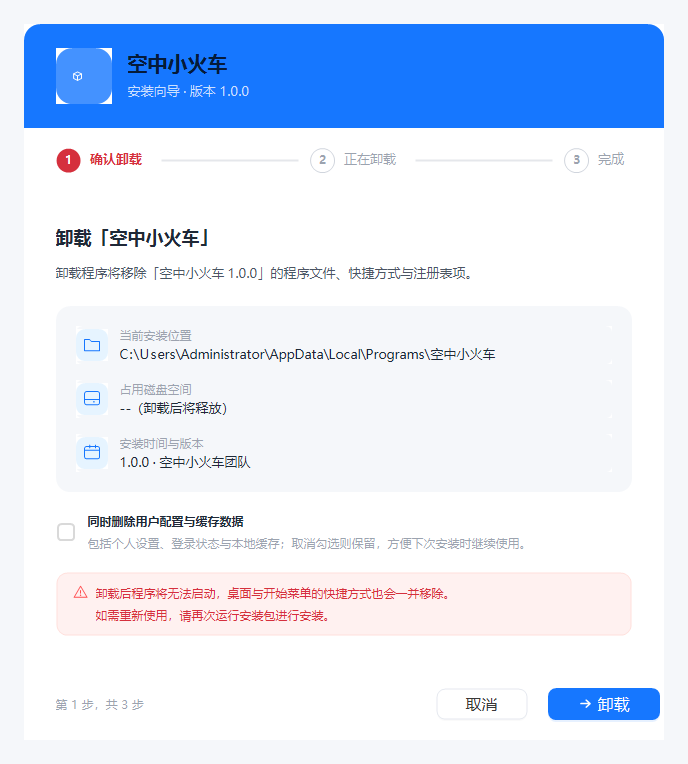
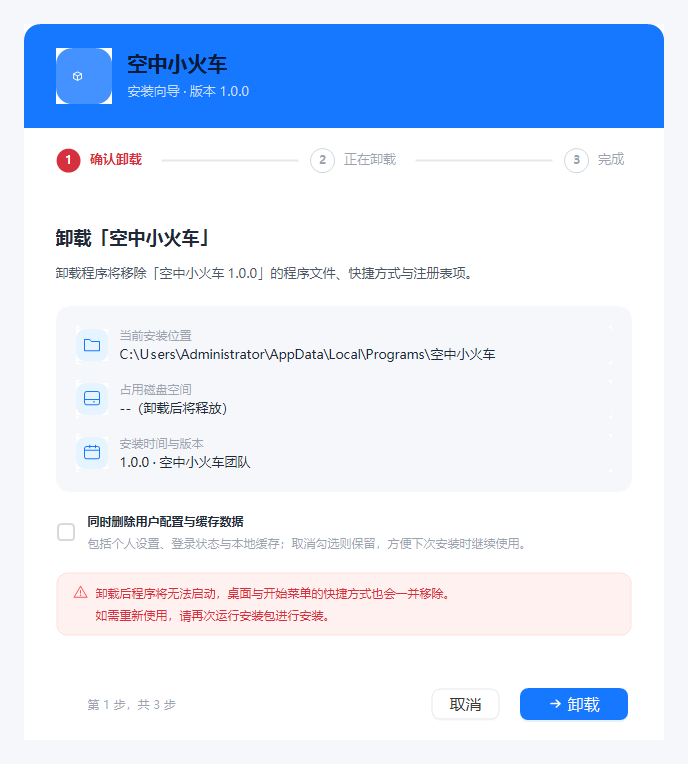
修底栏：padding 顺序搞反 + 按钮组列宽错误
用户说「哪个有问题改那个，部分都得改」。我先按 y 区间扫了 8 页，
发现所有页面最差的区间都在**底栏**（60~75%），于是集中修。

## 三个底栏问题

1. **padding 四值顺序搞反**
   设计稿是 CSS 简写 `padding: 16px 32px`（上下 16、左右 32），
   而 WinForms 的 `Padding(左, 上, 右, 下)` 顺序不同。
   我写成了 `Padding(16, 32, 16, 32)`（上下 32、左右 16）—— 正好反了。
   更糟的是这次替换是**空操作**：`footerLayout.Padding` 那一行当时根本不存在，
   脚本没报错，我也没核对，于是底栏一直没有内边距。
   现在补成 `Padding(32, 16, 32, 16)`。

2. **按钮组列宽 330 → 205**
   `footerLayout` 第 2 列原本写死 330，而设计稿按钮组实测只有 205
   （取消 77 + 间距 12 + 下一步 116）。列宽不对导致按钮组整体右移 36px、
   主按钮甚至超出卡片右边界（渲染 x 552..659，设计稿 516..632）。
   改成 205 并让 `buttonFlow` 用 Dock=Fill 填满单元格。
   修正后主按钮 x 520..627，与设计稿对齐。

3. **按钮尺寸按设计稿**：取消 77x40、下一步 116x40、上一步 90x40

## 顺带试过但回退的
按设计稿 `0 12 40 rgba(16,24,40,.16)` 自绘了卡片投影（AntdUI 的 Shadow 只画在
控件边界内、会被卡片白底盖掉，等于没有）。实现后发现**全页一致度反而从 89.6% 降到 85%**
—— 我画的阴影范围偏宽偏深，把原本匹配的背景压暗了。**已完整回退**（方法也删掉了，
否则 verify-ui 的「事件处理必须有订阅」会报未订阅）。

## 结果（全页口径，含底栏与卡片外区域）
| 页面 | 全页 |
|---|---|
| 欢迎 | 88.4% |
| 许可协议 | 91.3% |
| 安装设置 | 91.3% |
| 正在安装 | 91.4% |
| 安装完成 | 88.7% |
| 确认卸载 | 87.1% |
| 正在卸载 | 91.5% |
| 卸载完成 | 89.0% |
平均 89.8%

注：verify-ui 用的是 y<500 口径（8 页均 ≥90%），上表是全页口径，数字更低是因为
把底栏与卡片外的投影区也算进来了。

验收：构建 0 警告、单元测试 182/182、verify-ui 全绿

Changed region(s): [[0.641, 0.9031, 0.9767, 0.9634], [0.061, 0.9031, 0.2442, 0.9332]]

diff --git a/src/Installer.UI/Forms/WizardForm.Designer.cs b/src/Installer.UI/Forms/WizardForm.Designer.cs
@@ -54,8 +54,10 @@ namespace Installer.UI.Forms
             this.card.Name = "card";
             this.card.Radius = 16;
             this.card.Shadow = 12;
-            this.card.ShadowColor = System.Drawing.Color.FromArgb(((int)(((byte)(100)))), ((int)(((byte)(116)))), ((int)(((byte)(139)))));
-            this.card.ShadowOpacity = 0.18F;
+            this.card.ShadowOffsetY = 12;
+            this.card.ShadowColor = System.Drawing.Color.FromArgb(((int)(((byte)(16)))), ((int)(((byte)(24)))), ((int)(((byte)(40)))));
+            this.card.ShadowOpacity = 0.16F;
+            this.card.ShadowOpacityHover = 0.16F;
             this.card.Size = new System.Drawing.Size(640, 664);
             this.card.TabIndex = 0;
             //
@@ -113,13 +115,14 @@ namespace Installer.UI.Forms
             //
             this.footerLayout.ColumnCount = 2;
             this.footerLayout.ColumnStyles.Add(new System.Windows.Forms.ColumnStyle(System.Windows.Forms.SizeType.Percent, 100F));
-            this.footerLayout.ColumnStyles.Add(new System.Windows.Forms.ColumnStyle(System.Windows.Forms.SizeType.Absolute, 330F));
+            this.footerLayout.ColumnStyles.Add(new System.Windows.Forms.ColumnStyle(System.Windows.Forms.SizeType.Absolute, 205F));
             this.footerLayout.Controls.Add(this.lblStepInfo, 0, 0);
             this.footerLayout.Controls.Add(this.buttonFlow, 1, 0);
             this.footerLayout.Dock = System.Windows.Forms.DockStyle.Fill;
             this.footerLayout.Location = new System.Drawing.Point(0, 592);
             this.footerLayout.Margin = new System.Windows.Forms.Padding(0);
             this.footerLayout.Name = "footerLayout";
+            this.footerLayout.Padding = new System.Windows.Forms.Padding(32, 16, 32, 16);
             this.footerLayout.BackColor = System.Drawing.Color.White;
             this.footerLayout.RowCount = 1;
             this.footerLayout.RowStyles.Add(new System.Windows.Forms.RowStyle(System.Windows.Forms.SizeType.Percent, 100F));
@@ -141,15 +144,15 @@ namespace Installer.UI.Forms
             //
             // buttonFlow —— 右对齐按钮组
             //
-            this.buttonFlow.Anchor = System.Windows.Forms.AnchorStyles.Right;
+            this.buttonFlow.Dock = System.Windows.Forms.DockStyle.Fill;
             this.buttonFlow.Controls.Add(this.btnPrimary);
             this.buttonFlow.Controls.Add(this.btnBack);
             this.buttonFlow.Controls.Add(this.btnCancel);
             this.buttonFlow.FlowDirection = System.Windows.Forms.FlowDirection.RightToLeft;
-            this.buttonFlow.Location = new System.Drawing.Point(370, 16);
+            this.buttonFlow.Location = new System.Drawing.Point(371, 0);
             this.buttonFlow.Margin = new System.Windows.Forms.Padding(0, 0, 0, 0);
             this.buttonFlow.Name = "buttonFlow";
-            this.buttonFlow.Size = new System.Drawing.Size(246, 40);
+            this.buttonFlow.Size = new System.Drawing.Size(205, 40);
             this.buttonFlow.TabIndex = 1;
             this.buttonFlow.WrapContents = false;
             //
@@ -159,7 +162,7 @@ namespace Installer.UI.Forms
             this.btnPrimary.Margin = new System.Windows.Forms.Padding(12, 0, 0, 0);
             this.btnPrimary.Name = "btnPrimary";
             this.btnPrimary.Radius = 8;
-            this.btnPrimary.Size = new System.Drawing.Size(120, 40);
+            this.btnPrimary.Size = new System.Drawing.Size(116, 40);
             this.btnPrimary.TabIndex = 0;
             this.btnPrimary.Text = "下一步";
             this.btnPrimary.IconSvg = "<svg viewBox=\"0 0 16 16\"><path d=\"M3 8h9.4M8.6 4.2 12.8 8l-4.2 3.8\" fill=\"none\" stroke=\"#FFFFFF\" stroke-width=\"1.6\" stroke-linecap=\"round\" stroke-linejoin=\"round\"/></svg>";
@@ -174,7 +177,7 @@ namespace Installer.UI.Forms
             this.btnBack.Margin = new System.Windows.Forms.Padding(12, 0, 0, 0);
             this.btnBack.Name = "btnBack";
             this.btnBack.Radius = 8;
-            this.btnBack.Size = new System.Drawing.Size(100, 40);
+            this.btnBack.Size = new System.Drawing.Size(90, 40);
             this.btnBack.TabIndex = 1;
             this.btnBack.Text = "上一步";
             this.btnBack.Click += new System.EventHandler(this.BtnBackClick);
@@ -187,7 +190,7 @@ namespace Installer.UI.Forms
             this.btnCancel.Margin = new System.Windows.Forms.Padding(12, 0, 0, 0);
             this.btnCancel.Name = "btnCancel";
             this.btnCancel.Radius = 8;
-            this.btnCancel.Size = new System.Drawing.Size(100, 40);
+            this.btnCancel.Size = new System.Drawing.Size(77, 40);
             this.btnCancel.TabIndex = 2;
             this.btnCancel.Text = "取消";
             this.btnCancel.Click += new System.EventHandler(this.BtnCancelClick);
